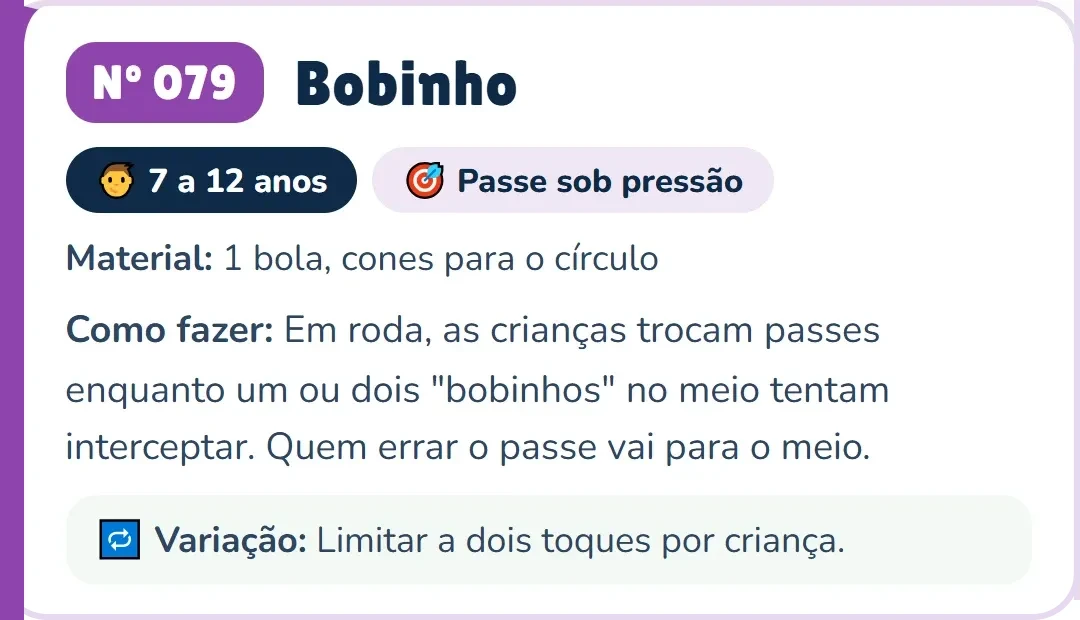
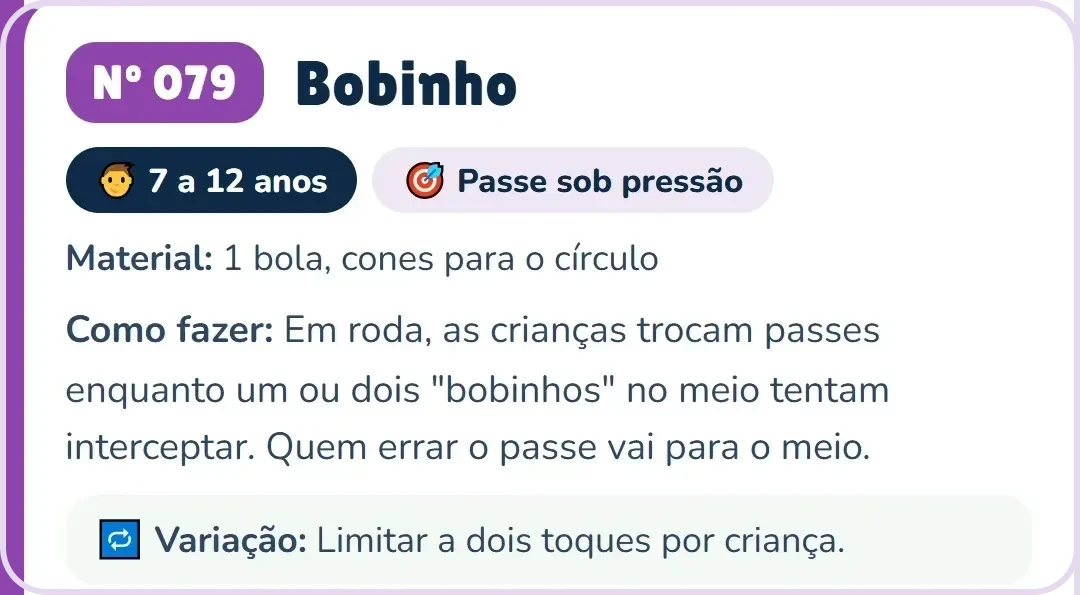
Craque Kids: bloco de fichas com ilustração, etiquetas, 3 fichas em carrossel e plano de aula do Bobinho

diff --git a/public/futebol-kids/index.html b/public/futebol-kids/index.html
@@ -71,7 +71,21 @@ body.tem-fixo{padding-bottom:84px}
 @media(min-width:768px){body.tem-fixo{padding-bottom:0}}
 .ck-ficha{display:block;width:100%;max-width:560px;padding:0;border:none;background:none;cursor:zoom-in;position:relative;text-align:center}
 .ck-ficha img{display:block;width:100%;height:auto;border-radius:18px;box-shadow:0 14px 34px rgba(10,24,60,.16)}
-.ck-ficha-dica{display:inline-block;margin-top:12px;font-weight:700;font-size:15px;color:var(--primary);background:var(--accent);padding:9px 16px;border-radius:999px}
+.ck-tags{display:flex;flex-wrap:wrap;justify-content:center;gap:8px;margin:20px auto 0;max-width:560px;padding:0;list-style:none}
+.ck-tags li{background:#fff;border:1px solid var(--border);border-radius:999px;padding:6px 12px;font-size:13px;font-weight:700;color:var(--foreground)}
+.ck-fcar{max-width:560px}
+.ck-fcar .ck-slide{flex:0 0 100%;padding:0 4px}
+.ck-fslide{display:flex;flex-direction:column;gap:10px}
+.ck-fil{display:block;width:100%;max-width:340px;margin:0 auto;aspect-ratio:4/5;object-fit:cover;border-radius:18px;box-shadow:0 10px 26px rgba(10,24,60,.12)}
+.ck-fcard{display:block;width:100%;height:auto;border-radius:18px;box-shadow:0 12px 30px rgba(10,24,60,.14)}
+.ck-fcar .ck-seta{top:30%}
+.ck-plano{max-width:560px;background:#fff;border:1px solid var(--border);border-radius:20px;padding:18px 16px;box-shadow:0 10px 26px rgba(10,24,60,.08)}
+.ck-plano ol{list-style:none;margin:12px 0 0;padding:0;display:grid;gap:8px}
+.ck-plano li{display:flex;align-items:center;gap:10px;font-size:14px;border-radius:12px;padding:6px;line-height:1.25}
+.ck-plano li span{flex:none;color:#fff;font-weight:800;font-size:12px;border-radius:8px;padding:6px 8px;min-width:56px;text-align:center}
+.ck-plano li b{display:block;font-size:11px;color:var(--muted-foreground);font-weight:700;text-transform:uppercase;letter-spacing:.04em}
+.ck-plano-on{background:#F3EAF9;outline:2px solid #8E44AD}
+.ck-ficha-dica{border:none;cursor:pointer;display:inline-block;margin-top:12px;font-weight:700;font-size:15px;color:var(--primary);background:var(--accent);padding:9px 16px;border-radius:999px}
 .ck-fbox{position:relative;width:100%;max-width:560px;max-height:94vh;overflow:auto;-webkit-overflow-scrolling:touch;background:#fff;border-radius:16px;padding:10px 10px 14px}
 .ck-fbox img{display:block;width:100%;height:auto;border-radius:8px}
 .ck-x-claro{position:sticky;float:right;top:0;z-index:2;background:rgba(10,24,60,.8);color:#fff;border-radius:999px;width:40px;height:40px;padding:0;margin:-2px -2px -40px 0}
@@ -108,18 +122,51 @@ body.tem-fixo{padding-bottom:84px}
 </ul>
 </section>
 
-<!-- 1b. FICHA REAL (Nº 079 Bobinho) -->
+<!-- 1b. FICHAS REAIS DO MATERIAL -->
 <section class="px-5 pb-6 pt-14">
 <div class="mx-auto max-w-3xl text-center">
 <p class="text-xs font-bold tracking-widest text-primary">VEJA UMA FICHA DO MATERIAL</p>
 <h2 class="mt-2 font-display text-3xl font-extrabold leading-tight text-foreground md:text-4xl">Como trabalhar passe com a sua turma?</h2>
 <p class="mt-4 text-lg text-muted-foreground">Veja a ficha do Bobinho: como organizar a roda, a regra do jogo e como aumentar a dificuldade.</p>
 </div>
-<button type="button" id="ckFichaBtn" class="ck-ficha mx-auto mt-8" aria-label="Ampliar a página do material com a dinâmica Nº 079 Bobinho">
-<img src="/futebol-kids/img/ficha-079-card.webp" width="1080" height="620" alt="Ficha Nº 079 Bobinho: 7 a 12 anos, passe sob pressão. Material: 1 bola e cones para o círculo. Como fazer: em roda, as crianças trocam passes enquanto um ou dois bobinhos no meio tentam interceptar; quem errar o passe vai para o meio. Variação: limitar a dois toques por criança." loading="lazy" decoding="async">
-<span class="ck-ficha-dica">🔍 Toque para ampliar a ficha</span>
-</button>
-<p class="mx-auto mt-4 max-w-2xl text-center text-sm text-muted-foreground">São 200 fichas assim, separadas por idade e por objetivo.</p>
+<ul class="ck-tags" aria-label="O que toda ficha traz">
+<li>✓ Idade</li><li>✓ Objetivo</li><li>✓ Material</li><li>✓ Passo a passo</li><li>✓ Variação</li>
+</ul>
+<div class="ck-car ck-fcar mx-auto mt-6" aria-roledescription="carrossel">
+<button type="button" class="ck-seta ck-ant" aria-label="Ficha anterior">‹</button>
+<div class="ck-trilho">
+<div class="ck-slide ck-fslide" role="group" aria-roledescription="slide" aria-label="1 de 3">
+<img src="/futebol-kids/img/ilu04.webp" alt="Ilustração da dinâmica Nº 079 Bobinho" width="900" height="1125" loading="lazy" decoding="async" class="ck-fil">
+<img src="/futebol-kids/img/ficha-079-card.webp" alt="Ficha Nº 079 Bobinho: 7 a 12 anos, passe sob pressão. Material: 1 bola e cones para o círculo. Como fazer: em roda, as crianças trocam passes enquanto um ou dois bobinhos no meio tentam interceptar; quem errar o passe vai para o meio. Variação: limitar a dois toques por criança." width="1080" height="595" loading="lazy" decoding="async" class="ck-fcard">
+</div>
+<div class="ck-slide ck-fslide" role="group" aria-roledescription="slide" aria-label="2 de 3">
+<img src="/futebol-kids/img/ilu01.webp" alt="Ilustração da dinâmica Nº 003 Rabo do Macaco" width="900" height="1125" loading="lazy" decoding="async" class="ck-fil">
+<img src="/futebol-kids/img/ficha-003-card.webp" alt="Ficha Nº 003 Rabo do Macaco: 5 a 12 anos, agilidade e mudança de direção. Material: coletes ou fitas presos na cintura. Como fazer: cada criança prende um colete atrás do short e todos tentam pegar o rabo dos outros sem perder o seu. Variação: com bola no pé." width="1080" height="708" loading="lazy" decoding="async" class="ck-fcard">
+</div>
+<div class="ck-slide ck-fslide" role="group" aria-roledescription="slide" aria-label="3 de 3">
+<img src="/futebol-kids/img/ilu03.webp" alt="Ilustração da dinâmica Nº 058 Pirata e o Tesouro" width="900" height="1125" loading="lazy" decoding="async" class="ck-fil">
+<img src="/futebol-kids/img/ficha-058-card.webp" alt="Ficha Nº 058 Pirata e o Tesouro: 6 a 10 anos, proteger a bola. Material: 1 bola por criança e coletes para os piratas. Como fazer: as crianças conduzem a bola enquanto dois piratas tentam roubar. Variação: quem perde vira pirata." width="1080" height="643" loading="lazy" decoding="async" class="ck-fcard">
+</div>
+</div>
+<button type="button" class="ck-seta ck-prox" aria-label="Próxima ficha">›</button>
+</div>
+<div class="ck-pontos"></div>
+<div class="mt-4 text-center"><button type="button" id="ckFichaBtn" class="ck-ficha-dica" aria-label="Ampliar a página do material com a dinâmica Nº 079 Bobinho">🔍 Ver a página do Bobinho no material</button></div>
+
+<div class="ck-plano mx-auto mt-10">
+<p class="text-xs font-bold tracking-widest text-primary">ONDE O BOBINHO ENTRA NO TREINO</p>
+<h3 class="mt-1 font-display text-xl font-extrabold">Plano de aula 09 · Roda de passes</h3>
+<p class="text-sm text-muted-foreground">7 a 9 anos · Passe e comunicação · 60 minutos</p>
+<ol>
+<li><span style="background:#F2A93B">10 min</span><b>Aquecimento</b> Batata Quente com os Pés</li>
+<li><span style="background:#2E86DE">15 min</span><b>Parte principal 1</b> Roda de Passes</li>
+<li class="ck-plano-on"><span style="background:#8E44AD">15 min</span><b>Parte principal 2</b> Bobinho</li>
+<li><span style="background:#1ABC9C">15 min</span><b>Jogo</b> Gol de Ouro</li>
+<li><span style="background:#7F8C8D">5 min</span><b>Volta à calma</b> Craque da Atitude</li>
+</ol>
+<p class="mt-3 text-sm font-semibold">São 20 planos assim no <span class="text-primary">Plano Completo</span>.</p>
+</div>
+<p class="mx-auto mt-6 max-w-2xl text-center text-sm text-muted-foreground">São 200 fichas como estas, separadas por idade e por objetivo.</p>
 </section>
 
 <!-- 2. REPERTÓRIO -->
